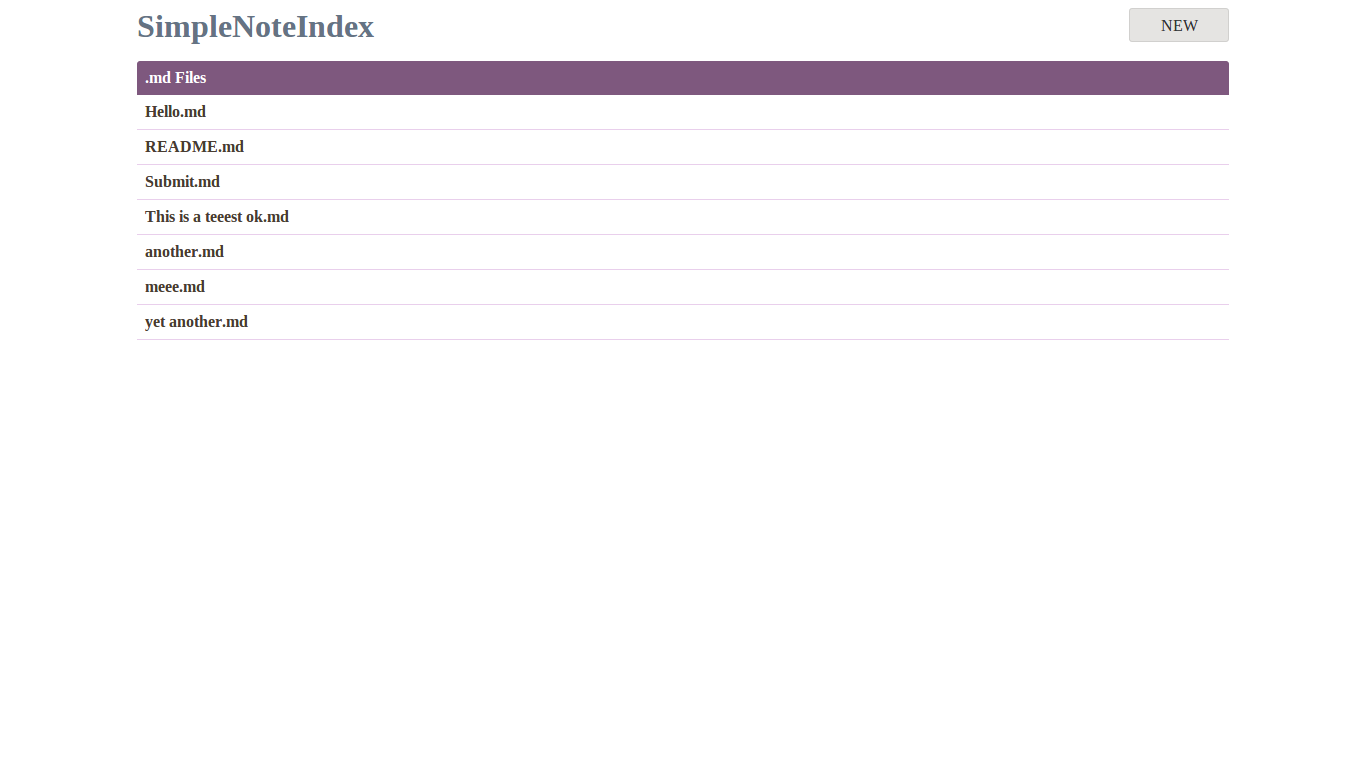
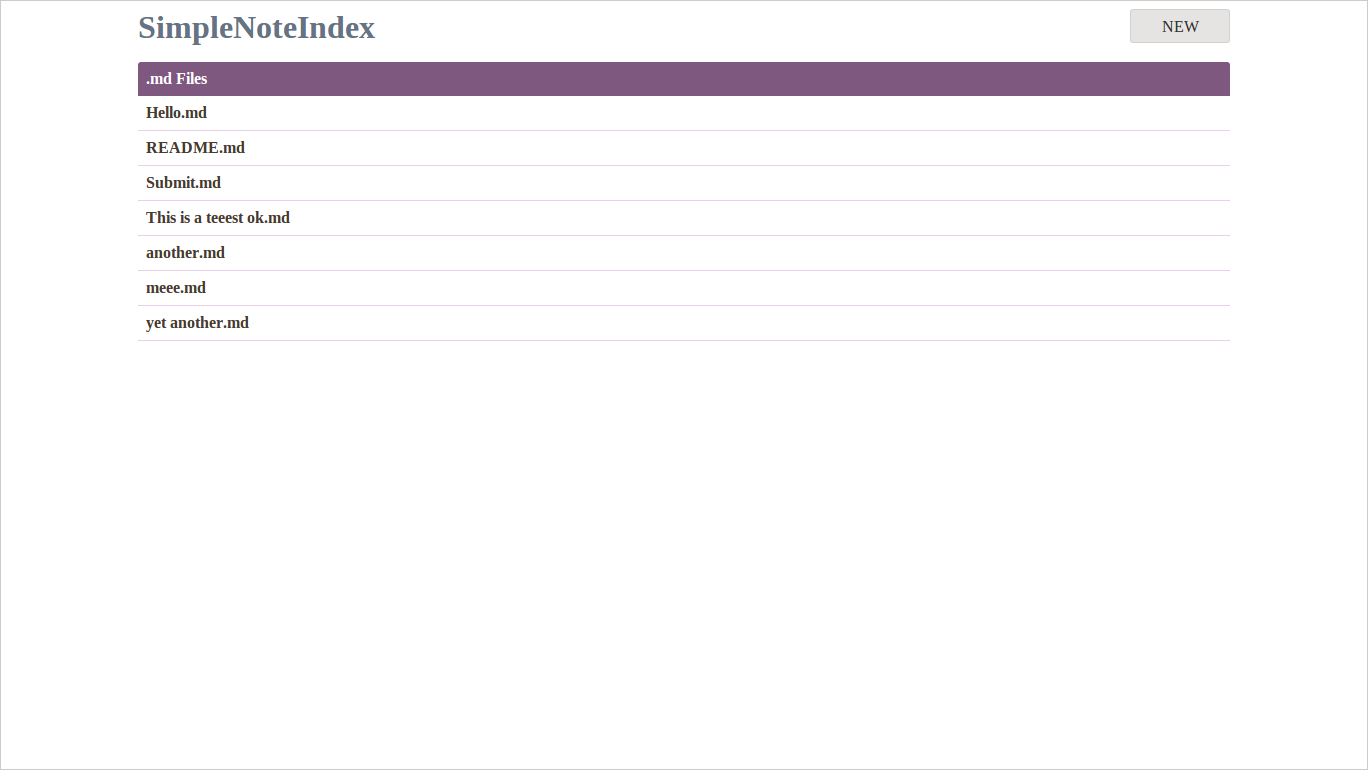
ok

diff --git a/index.php b/index.php
@@ -12,7 +12,7 @@ $way = $SNI->directory;
 <head>
   <meta charset="utf-8" />
   <title><?php echo $title; ?></title>
-  <link rel="stylesheet" href="stylesheet.css" />
+  <?php echo SNIMakeContent::stylesheet("stylesheet.css"); /* If file is not present, echoes the embedded stylesheet */ ?>
 </head>
 
 <body>
@@ -110,6 +110,255 @@ EOT;
 </form>
 </div>
 EOT;
+	}
+
+	static function stylesheet($stylesheet_filename)
+	{
+		if(file_exists($stylesheet_filename))
+		{
+			return "<link rel=\"stylesheet\" href=\"{$stylesheet_filename}\" \>";
+		}
+		else
+		{
+			return <<<EOT
+<style>
+
+* { box-sizing: border-box; }
+
+html, body
+{
+	margin: 0;
+}
+
+h1, h2, h3, h4, h5, h6
+{ margin: 0; }
+
+a
+{
+	text-decoration: none;
+	color: #483c32;
+}
+
+#header, #page
+{
+	width: 80%;
+	margin: 0 auto;
+}
+
+#header
+{
+	margin-top: 0.5rem;
+	overflow: overlay;
+}
+
+#header > h1
+{
+	max-width: 75%;
+	margin: 0;
+	display: inline-block;
+	float: left;
+}
+
+#header > h1 > a
+{
+	color: #657383;
+}
+
+#newbt
+{
+	width: 6.25rem;
+	height: 2.125rem;
+	float: right;
+	border-radius: 3px;
+	background-color: #e5e4e2;
+	border: 1px solid #d1d0ce;
+	color: #333;
+	text-transform: uppercase;
+	text-align: center;
+	font-size: 1rem;
+	padding: 0.5rem;
+	transition: padding-left 0.5s, color 0.5s, background-color 0.5s;
+}
+
+#newbt:hover
+{
+	color: #fff;
+	background-color: #bbc6cc;
+	padding-left: 1rem;
+}
+
+#page
+{
+	margin-top: 1rem;
+	overflow: overlay;
+}
+
+#files-header
+{
+	background-color: #7e587e;
+	color: #fff;
+	font-weight: bold;
+	padding: 0.5rem;
+	border-top-left-radius: 3px;
+	border-top-right-radius: 3px;
+}
+
+#files
+{
+	width: 100%;
+}
+
+.fileitem
+{
+	border-bottom: 1px solid #e9cfec;
+}
+
+.fileitemlink
+{
+	display: block;
+	padding: 0.5rem 0.5rem;
+	transition: 0.5s padding-left, 0.5s background-color, 0.5s color;
+	font-weight: 700;
+}
+
+.fileitemlink:hover
+{
+	padding-left: 1rem;
+	background-color: #e3e4fa;
+	color: #333;
+}
+
+#text
+{
+	width: 50%;
+	float: left;
+	padding: 0.5rem 0.5rem 0.5rem 0;
+}
+
+#edit
+{
+	width: 50%;
+	float: right;
+}
+
+#text, #edit
+{
+	border-top: 1px solid #d1d0ce;
+	padding-top: 0.75rem;
+}
+
+#edittextarea
+{
+	width: 100%;
+	max-width: 100%;
+	min-height: 300px;
+	padding: 0.375rem;
+}
+
+#editbutton
+{
+	width: 100%;
+	height: 2.125rem;
+	float: right;
+	border-radius: 3px;
+	background-color: #e5e4e2;
+	border: 1px solid #d1d0ce;
+	color: #333;
+	text-transform: uppercase;
+	text-align: center;
+	font-family: serif;
+	font-size: 1rem;
+	padding: 0.5rem;
+	transition: padding-left 0.5s, color 0.5s, background-color 0.5s;
+}
+
+#editbutton:hover
+{
+	color: #483c32;
+	background-color: #bbc6cc;
+	padding-left: 1rem;
+}
+
+#create
+{
+	width: 375px;
+	margin: 3rem auto;
+	overflow: overlay;
+	border: 1px solid #d1d0ce;
+
+}
+
+#createheader
+{
+	background-color: #7e587e;
+	color: #fff;
+	font-weight: bold;
+	padding: 0.5rem;
+	border-top-left-radius: 3px;
+	border-top-right-radius: 3px;
+	text-align: center;
+}
+
+#createfilename
+{
+	margin: 0.5rem;
+	max-width: 100%;
+}
+
+#createinput
+{
+	width: 85%;
+	height: 1.75rem;
+	float: left;
+	border: 1px solid #d1d0ce;
+	border-right: 0;
+	font-family: monospace;
+	font-size: 1rem;
+	padding-left: 0.25rem;
+}
+
+#createextension
+{
+	width: 15%;
+	height: 1.75rem;
+	float: right;
+	text-align: center;
+	padding: 0.25rem;
+	border: 1px solid #d1d0ce;
+	border-top-right-radius: 3px;
+	border-bottom-right-radius: 3px;
+	background-color: #e5e4e2;
+}
+
+#createsubmit
+{
+	margin: 0.5rem ;
+	max-width: 100%;
+	height: 2.125rem;
+	float: right;
+	border-radius: 3px;
+	background-color: #e5e4e2;
+	border: 1px solid #d1d0ce;
+	color: #333;
+	text-transform: uppercase;
+	text-align: center;
+	font-family: serif;
+	font-size: 1rem;
+	padding: 0.5rem;
+	transition: padding-left 0.5s, color 0.5s, background-color 0.5s;
+}
+
+#createsubmit:hover
+{
+	color: #483c32;
+	background-color: #bbc6cc;
+	padding-left: 1rem;
+}
+
+</style>
+
+EOT;
+		}
 	}
 }
 

diff --git a/README.md b/README.md
@@ -30,10 +30,13 @@ Simple and beautiful formatted note directory using markdown syntax.
 Clone this repository inside the web server. **Make sure that only you have access to your web server**
 
 ```
-git clone https://github.com/kassius/SimpleNoteIndex.git
+git clone https://github.com/kassius/SimpleNoteIndex.git MyNotes
 ```
 
 Then open the index.php with the browser, it will list the .md files inside the directory, and you can create a new file clicking the 'NEW' button, or edit existing files.
+
+You can remove `.git/` and `screenshots/` directories.
+You can remove the `stylesheet.css` file and leave only the index.php and your .md notes, and it will embed the css inline, from the .php
 
 ## Notes
 
